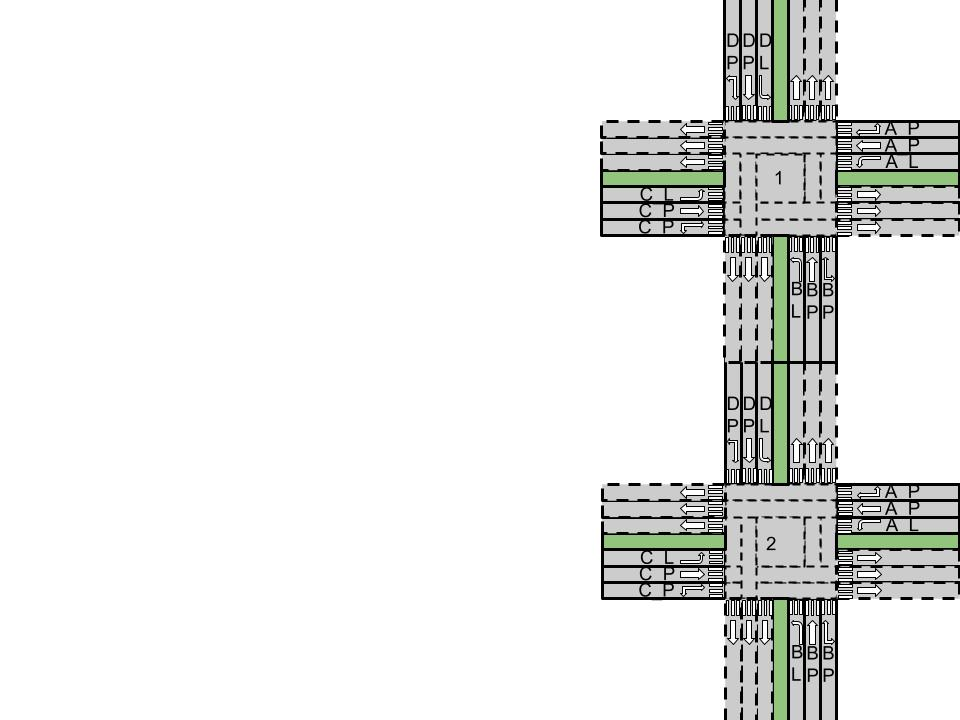
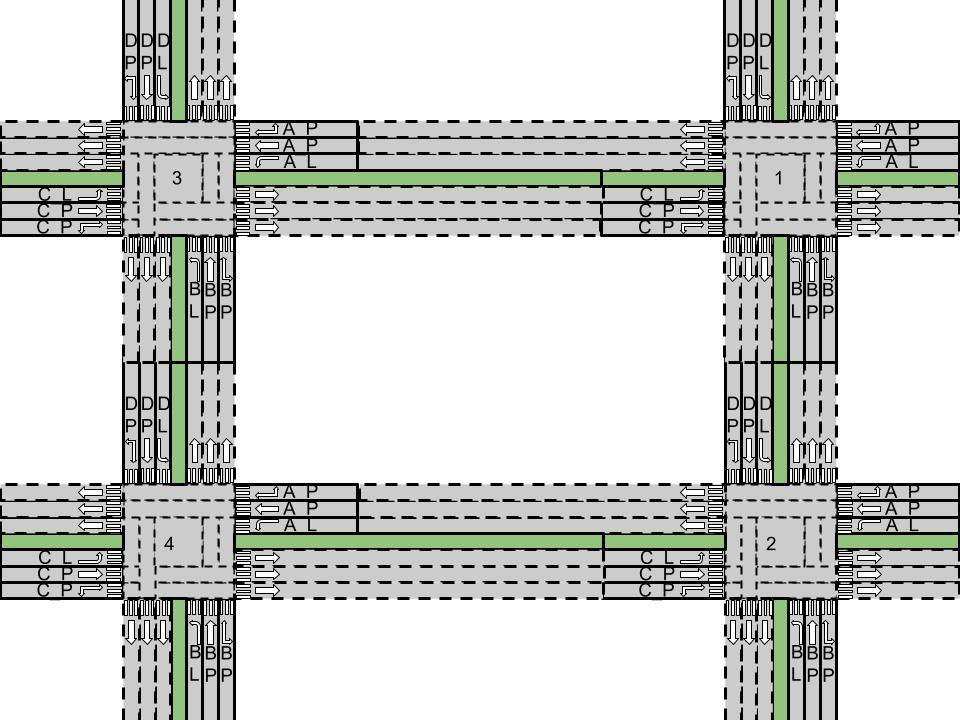
remove constructor

Changed region(s): [[0.0, 0.0, 0.7812, 1.0]]

diff --git a/src/main/scala/pl/edu/pw/elka/Main.java b/src/main/scala/pl/edu/pw/elka/Main.java
@@ -28,6 +28,8 @@ public class Main {
 		terrain = new Terrain();
 		terrain.addJunction(new XJunction("1", 775, 130));
 		terrain.addJunction(new XJunction("2", 775, 130 * 3 + 12));
+		terrain.addJunction(new XJunction("3", 173, 130));
+		terrain.addJunction(new XJunction("4", 173, 130 * 3 + 12));
 		//        config database with visualization
 		new Timer().schedule(new TerrainDrawer(database, terrain), 0, 1000); // Create Repetitively task for every 1 secs
 		//        Akka
